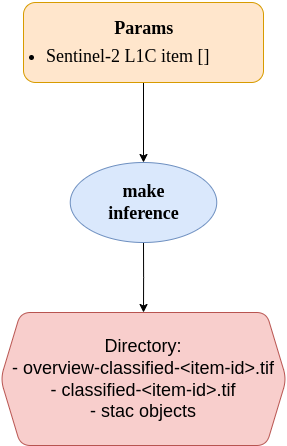
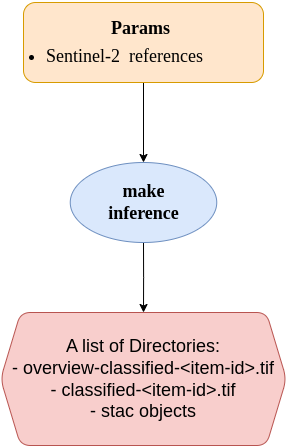
docs: best practice docs

Changed region(s): [[0.3902, 0.0291, 0.7526, 0.1457], [0.223, 0.7578, 0.7526, 0.8161]]

diff --git a/docs/training-cwl.md b/docs/training-cwl.md
@@ -1,57 +1,30 @@
 # Training Module & CWL Runner
 
-The users have the option to execute their training remotely on a remote machine, which becomes their preferred choice for conducting long-running experiments. 
- The user will be able to train a simple training job and track evaluation metrics, model's hyper-parameters, application inputs, and artifacts using mlflow. He/She should build a docker image from the application package which is explained in [training-container](./training-container.md) and push to a dedicated image registry (in this case we use github container registry). Then, The user develop a cwl document with containing a top layer workflow with a CommandLineTool step which is responsible for executing the training pipeline. For executing the application package, the user have the options to use whether [cwltool](https://github.com/common-workflow-language/cwltool) or [calrissian](https://github.com/Duke-GCB/calrissian).
+This Application Package provides a CWL document containing a top-level workflow with a singleCommandLineToolstep that executes the training pipeline. It also supports **parallel execution**, allowing users to specify multiple sets of hyperparameter or training configurations. This makes it suitable for large-scale experiments and hyperparameter tuning on platforms like a Minikube cluster.
+
+To execute the training workflow, users can choose between [cwltool](https://github.com/common-workflow-language/cwltool) and [Calrissian](https://github.com/Duke-GCB/calrissian) as their CWL runners.
+
+# Inputs:
+
+| Parameter              | Type     | Description |
+|------------------------|----------|-------------|
+| MLFLOW_TRACKING_URI    | string      | An environment variable for the MLFLOW_TRACKING_URI |
+| stac_reference         | string   | URL pointing to a STAC catalog. The model reads GeoParquet annotations from the collection's assets. |
+| BATCH_SIZE             | int[]    | Number of batches |
+| CLASSES                | int      | Number of land cover classes to classify. |
+| DECAY                  | float[]  | Decay value used in training. |
+| EPOCHS                 | int[]    | Number of epochs |
+| EPSILON                | float[]  | Epsilon value (model hyperparameter) |
+| LEARNING_RATE          | float[]  | Initial learning rate for the optimizer. |
+| LOSS                   | string[] | Loss function for training. Options: `binary_crossentropy`, `cosine_similarity`, `mean_absolute_error`, `mean_squared_logarithmic_error`, `squared_hinge`. |
+| MEMENTUM               | float[]  | Momentum parameter used in optimizers |
+| OPTIMIZER              | string[] | Optimization algorithm. Options: `Adam`, `SGD`, `RMSprop`. |
+| REGULARIZER            | string[] | Regularization technique to avoid overfitting. Options: `l1l2`, `l1`, `l2`, `None`. |
+| SAMPLES_PER_CLASS      | int      | Number of samples to use for training per class. |
 
 
 ## How to execute the application-package?
-Before executing the application package with a CWL runner, the user must first update the [params.yaml](./params.yaml) including the inputs below:
-
-with the correct credentials as well as updating the latest docker image reference in the cwl file as below:
-```
-stac_endpoint_url: https://ai-extensions-stac.terradue.com/collections/Euro_SAT
-BATCH_SIZE: 4
-EPOCHS: 3
-LEARNING_RATE: 0.0001
-DECAY: 0.1  ### float
-EPSILON: 0.000002
-MEMENTUM: 0.95
-# choose one of binary_crossentropy/cosine_similarity/mean_absolute_error/mean_squared_logarithmic_error
-# squared_hinge
-LOSS: categorical_crossentropy  
-# choose one of  l1,l2,None
-REGULIZER: None
-# try Adam/SGD/RMSprop
-OPTIMIZER: Adam
-###############################################################
-###############################################################
-# Dataset
-SAMPLES_PER_CLASS: 10
-CLASSES: 10
-IMAGE_SIZE: [64, 64, 13]
-enable_data_ingestion: True
-
-```
-and some environment variable must be set:
-
-```
-# Environment variables
-# AWS
-AWS_S3_ENDPOINT: #AWS_S3_ENDPOINT 
-AWS_REGION: fr-par # AWS_REGION 
-AWS_DEFAULT_REGION: fr-par #AWS_DEFAULT_REGION 
-AWS_ACCESS_KEY_ID:  #AWS_ACCESS_KEY_ID 
-AWS_SECRET_ACCESS_KEY:  # AWS_SECRET_ACCESS_KEY 
-BUCKET_NAME: ai-ext-bucket-dev # BUCKET_NAME ai-ext-bucket-dev
-##############################################################
-##############################################################
-# STAC
-IAM_URL:  # IAM_URL
-IAM_PASSWORD:  #IAM_PASSWORD
-MLFLOW_TRACKING_URI: http://my-mlflow:5000
-```
-The latest version of cwl document can be fetched as below:
-
+Before running the application with a CWL runner, make sure to download and use the latest version of the CWL document:
 ```
 cd training/app-package
 VERSION="0.0.4"
@@ -66,27 +39,22 @@ There are two methods to execute the application:
 
 - Executing the tile-based-training using cwltool in a terminal:
 
-    ```
-    cwltool --podman --debug tile-sat-training.cwl#tile-sat-training params.yml
-    ```
+   ``
+    cwltool --podman --debug --parallel tile-sat-training.cwl#tile-sat-training params.yml
+   ``
     
 
 
 - Executing the tile-based classification using calrissian in a terminal:
 
-    ```
-    calrissian --debug --stdout /calrissian/out.json --stderr /calrissian/stderr.log --usage-report /calrissian/report.json --max-ram 10G --max-cores 2 --tmp-outdir-prefix /calrissian/tmp/ --outdir /calrissian/results/ --tool-logs-basepath /calrissian/logs tile-sat-training.cwl#tile-sat-training params.yaml
-    ```
+   ``
+    calrissian --debug --stdout /calrissian/out.json --stderr /calrissian/stderr.log --usage-report /calrissian/report.json --parallel --max-ram 10G --max-cores 2 --tmp-outdir-prefix /calrissian/tmp/ --outdir /calrissian/results/ --tool-logs-basepath /calrissian/logs tile-sat-training.cwl#tile-sat-training params.yaml
+   ``
 
-   
 
-## Additional Resources
-Please see below for additional resources and tutorials for developing Earth Observation (EO) Application Packages using the CWL:
+## How the CWL document designed:
+The CWL file can be triggered using `cwltool` or `calrissian`. The user provides a `params.yml` file that passes all inputs needed by the CWL file to execute the module. The CWL file is designed to execute the module based on the structure below:
 
-* [Application Package and CWL as a solution for EO portability](https://eoap.github.io/cwl-eoap/)
+<p align="center"><img src="./imgs/training.png" alt="Picture" width="40%" height="10%" style="display: block; margin: 20px auto;"/></p>
 
-* [A simple EO Application Package for getting started](https://eoap.github.io/quickwin/)
-
-* [Mastering EO Application Packaging with CWL](https://eoap.github.io/mastering-app-package/)
-
-* [Inference with the EO Application Package](https://eoap.github.io/inference-eoap/)
+> **`[]`** in the image above indicates that the user may pass a list of parameters to the application package.

diff --git a/docs/inference-cwl.md b/docs/inference-cwl.md
@@ -1,58 +1,45 @@
 # Inference Module & CWL Runner
 
-In the [training](training-container.md) module, the user trained a CNN model on EuroSAT dataset to classify image chips into 10 different classes and tracked the workflow with MLFlow.
+In the [training module](training-container.md), a CNN model was trained on the EuroSAT dataset to classify image chips into 10 different land use/land cover classes. The training workflow was tracked using MLflow.
 
-In this Application Package, the user provide a cwl document to performs inference by applying the trained model to unseen data to generate a classified image. The cwl document containing one main workflow to execute one CommandLineTool step:
+This Application Package provides a CWL document that performs inference by applying the trained model to unseen Sentinel-2 data in order to generate a classified image. The CWL document contains a single main workflow that executes one `CommandLineTool` step. It also supports parallel execution by accepting a list of Sentinel-2 references as input, making it suitable for running at scale on a Minikube cluster.
 
-The Application Package takes as input a [staged-in](./stage-in.md) Sentinel-2 L1C data and classifies it into 11 land cover classes:
+To execute the application, users have the option to use either [cwltool](https://github.com/common-workflow-language/cwltool) or [Calrissian](https://github.com/Duke-GCB/calrissian) as the CWL runner.
 
-| Class ID | Class Name            |
-|----------|-----------------------|
-| 0        | AnnualCrop            |
-| 1        | Forest                |
-| 2        | HerbaceousVegetation  |
-| 3        | Highway               |
-| 4        | Industrial            |
-| 5        | Pasture               |
-| 6        | PermanentCrop         |
-| 7        | Residential           |
-| 8        | River                 |
-| 9        | SeaLake               |
-| 10       | No Data               |
+## Inputs:
+- `input_reference`: A list of reference to a Sentinel-2 product on [planetary computer](https://planetarycomputer.microsoft.com/api/stac/v1/collections). The application will give you an accurate result if the sentinel-2 product has no/low cloud-cover.
 
-For executing the application package, the user have the options to use whether [cwltool](https://github.com/common-workflow-language/cwltool) or [calrissian](https://github.com/Duke-GCB/calrissian).
+## How to Execute the Application Package
 
-## Inputs
-The CWL file takes as input a reference to a directory containing the staged Sentinel-2 L1C product.
+Before running the application with a CWL runner, make sure to download and use the latest version of the CWL document:
 
-## **How to Execute the Application Package?**
-
-Before executing the application package with a CWL runner, the user must first stage in the Sentinel-2 L1C data. Instructions for doing this can be found in the [stage-in guide](./stage-in.md). Then update the latest docker image reference in the cwl file as below:
-```
+```bash
 cd inference/app-package
 VERSION="0.0.4"
 curl -L -o "tile-sat-inference.cwl" \
   "https://github.com/eoap/machine-learning-process/releases/download/${VERSION}/tile-sat-inference.${VERSION}.cwl"
-
 ```
 
 ### **Run the Application Package**:
 There are two methods to execute the application:
 
-- Executing the `tile-sat-inference` app using `cwltool` in a terminal:
+- Executing the `tile-sat-inference` app using `cwltool`:
 
     ```bash
-    cwltool --podman --debug tile-sat-inference.cwl#tile-sat-inference params.yml
+    cwltool --podman --debug --parallel tile-sat-inference.cwl#tile-sat-inference params.yml
     ```
 
-- Executing the water-bodies-app using `calrissian` in a terminal:
+- Executing the `tile-sat-inference` using `calrissian`:
 
     ```bash
     
-    calrissian --debug --stdout /calrissian/out.json --stderr /calrissian/stderr.log --usage-report /calrissian/report.json --max-ram 10G --max-cores 2 --tmp-outdir-prefix /calrissian/tmp/ --outdir /calrissian/results/ --tool-logs-basepath /calrissian/logs tile-sat-inference.cwl#tile-sat-inference params.yml
+    calrissian --debug --stdout /calrissian/out.json --stderr /calrissian/stderr.log --usage-report /calrissian/report.json --max-ram 10G --max-cores 2 --parallel --tmp-outdir-prefix /calrissian/tmp/ --outdir /calrissian/results/ --tool-logs-basepath /calrissian/logs tile-sat-inference.cwl#tile-sat-inference params.yml
     ```
+  > You can monitor the pod creation using command below:
+  >
+  >   `kubectl get pods` 
 
-## How the CWL Document Works:
+## How the CWL document designed:
 The CWL file can be triggered using `cwltool` or `calrissian`. The user provides a `params.yml` file that passes all inputs needed by the CWL file to execute the module. The CWL file is designed to execute the module based on the structure below:
 
 <p align="center"><img src="./imgs/inference.png" alt="Picture" width="40%" height="10%" style="display: block; margin: 20px auto;"/></p>

diff --git a/docs/inference-container.md b/docs/inference-container.md
@@ -1,11 +1,13 @@
 # Inference container:
-This module helps the user to create a pipeline for inference, which is responsible for reading assets from a Sentinel-2 L1C STAC item, loading 13 common bands, and providing a binary mask TIFF image using a CNN model that has already been trained (Please check the [training-container](./training-container.md)). 
+
+This module enables users to create an inference pipeline that take a Sentinel-2 STAC Item from the [Planetary Computer](https://planetarycomputer.microsoft.com/api/stac/v1/collections), and generates a binary mask TIFF image using a pre-trained CNN model. For details on how the model was trained, refer to the [training container documentation](./training-container.md).
+
 
 
 ## **Make Inference Module:**
 
 **Inputs**:
-- `input_reference`: The reference to a [staged-in](./stage-in.md) Sentinel-2 L1C product to run the inference on Sentinel-2 L1C images with 13 common bands.
+- `input_reference`: The reference to a Sentinel-2 product on [planetary computer](https://planetarycomputer.microsoft.com/api/stac/v1/collections). The application will give you an accurate result if the sentinel-2 product has no/low cloud-cover.
 
 **Outputs**:
 
@@ -43,14 +45,30 @@ This module helps the user to create a pipeline for inference, which is responsi
 
 - `STAC objects`: STAC objects related to the provided masks, including STAC catalog and STAC Item.
 
+## How the Application Works
 
-Certainly! Here's a grammatically correct and technically clearer version of your section:
+The application begins by reading a Sentinel-2 STAC Item from the [Planetary Computer](https://planetarycomputer.microsoft.com/api/stac/v1/collections). It then filters and selects 12 specific asset references in the order expected by the machine learning model. These assets correspond to common Sentinel-2 bands, as shown below:
 
+| Index | Asset Key  | Asset Common Name |
+|-------|------------|-------------------|
+| 1     | B01        | Coastal           |
+| 2     | B02        | Blue              |
+| 3     | B03        | Green             |
+| 4     | B04        | Red               |
+| 5     | B05        | Red Edge          |
+| 6     | B06        | Red Edge          |
+| 7     | B07        | Red Edge          |
+| 8     | B08        | NIR               |
+| 9     | B8A        | Narrow NIR        |
+| 10    | B09        | Water Vapor       |
+| 11    | B11        | SWIR 1 (16)       |
+| 12    | B12        | SWIR 2 (22)       |
 
-## How the Application Package Works
+As a preprocessing step, all selected assets are resampled to a uniform resolution of 10 meters.
 
-Before developing the inference module, one crucial step must be completed: the user needs to **select a candidate model from MLflow**, based on preferred evaluation metrics. The selected model should then be exported in the [ONNX](https://onnx.ai/) format and used for building the inference module.
+The pipeline then proceeds with a sliding window approach: it reads and stacks small image chips from the selected bands in the order listed above. These chips are fed into a trained CNN model, which predicts the corresponding class for each chip.
 
-The user must also provide a staged-in Sentinel-2 L1C product and read the STAC Item's 13 common spectral bands, which serve as the input to the trained model. These assets are processed using a 64×64 sliding window to handle memory limitations and ensure the input size matches that of the machine learning model.
-
-Finally, the model generates predictions, and the resulting classification masks are stored as a **COG (Cloud-Optimized GeoTIFF)** image.
+Finally, the application generates:
+- The classification prediction map (as a GeoTIFF mask)
+- A visual overview image
+- An updated STAC item containing metadata and references to the output files

diff --git a/docs/training-container.md b/docs/training-container.md
@@ -4,50 +4,25 @@ This tutorial containing a python application for training a deep learning model
 
 <p align="center"><img src="https://raw.githubusercontent.com/phelber/EuroSAT/master/eurosat_overview_small.jpg" alt="Picture" width="40%" height="10%" style="display: block; margin: 20px auto;"/></p>
 
+
 ## Inputs
-The application has the option to train the model using CPU or GPU to accelerate the training process. It received a set of input parameters including:
-```
-stac_endpoint_url: https://ai-extensions-stac.terradue.com/collections/Euro_SAT
-BATCH_SIZE: 4
-EPOCHS: 3
-LEARNING_RATE: 0.0001
-DECAY: 0.1  ### float
-EPSILON: 0.000002
-MEMENTUM: 0.95
-# choose one of binary_crossentropy/cosine_similarity/mean_absolute_error/mean_squared_logarithmic_error
-# squared_hinge
-LOSS: categorical_crossentropy  
-# choose one of  l1,l2,None
-REGULIZER: None
-# try Adam/SGD/RMSprop
-OPTIMIZER: Adam
-###############################################################
-###############################################################
-# Dataset
-SAMPLES_PER_CLASS: 10
-CLASSES: 10
-IMAGE_SIZE: [64, 64, 13]
-enable_data_ingestion: True
 
-```
-and some environment variable must be set:
+This application supports training the CNN model using either CPU or GPU to accelerate the process. It accepts the following input parameters:
 
-```
-# Environment variables
-# AWS
-AWS_S3_ENDPOINT: #AWS_S3_ENDPOINT 
-AWS_REGION: fr-par # AWS_REGION 
-AWS_DEFAULT_REGION: fr-par #AWS_DEFAULT_REGION 
-AWS_ACCESS_KEY_ID:  #AWS_ACCESS_KEY_ID 
-AWS_SECRET_ACCESS_KEY:  # AWS_SECRET_ACCESS_KEY 
-BUCKET_NAME: ai-ext-bucket-dev # BUCKET_NAME ai-ext-bucket-dev
-##############################################################
-##############################################################
-# STAC
-IAM_URL:  # IAM_URL
-IAM_PASSWORD:  #IAM_PASSWORD
-MLFLOW_TRACKING_URI: http://my-mlflow:5000
-```
+| Parameter              | Type     | Default Value | Description |
+|------------------------|----------|----------------|-------------|
+| `--stac_reference`, `--sr` | `str`   | `https://raw.githubusercontent.com/eoap/machine-learning-process/main/training/app-package/EUROSAT-Training-Dataset/catalog.json` | URL pointing to a STAC catalog. The model reads GeoParquet annotations from the collection's assets. |
+| `--BATCH_SIZE`, `--b`  | `int`    | `2`            | Number of batches |
+| `--CLASSES`, `--c`     | `int`    | `10`           | Number of land cover classes to classify. |
+| `--DECAY`, `--d`       | `float`  | `0.1`          |  Decay value used in training. |
+| `--EPOCHS`, `--ep`     | `int`    | *required*     | Number of epochs |
+| `--EPSILON`, `--e`     | `float`  | `1e-6`         | epsilon value (Model's heyperparameter) |
+| `--LEARNING_RATE`, `--lr` | `float` | `0.0001`      | Initial learning rate for the optimizer. |
+| `--LOSS`, `--lo`       | `str`    | `categorical_crossentropy` | Loss function for training. Options: `binary_crossentropy`, `cosine_similarity`, `mean_absolute_error`, `mean_squared_logarithmic_error`, `squared_hinge`. |
+| `--MEMENTUM`, `--m`    | `float`  | `0.95`         | Momentum parameter used in optimizers |
+| `--OPTIMIZER`, `--o`   | `str`    | `Adam`         | Optimization algorithm. Options: `Adam`, `SGD`, `RMSprop`. |
+| `--REGULARIZER`, `--r` | `str`    | `None`         | Regularization technique to avoid overfitting. Options: `l1l2`,`l1`, `l2`, `None`. |
+| `--SAMPLES_PER_CLASS`, `--s` | `int` | `10`       | Number of samples to use for training per class. |
 
 
 ## How the application structured internally

diff --git a/docs/hands-on.md b/docs/hands-on.md
@@ -1,10 +1,19 @@
 # Hands-on
 
-- Tile-based Training implementation:
-Open the [documention](./training-cwl.md) of training component and execute different runs with different model's hyperparameter by following [this instructions](../training/app-package/README.md). 
-- Run Stage-in:
-Open the [documentation](./stage-in.md) to learn how to stage-in the Sentinel-2 L1C products. 
-- Tile-based Inference implementation:
-Open the [documention](./inference-cwl.md) of inference component and execute different runs with different staged-in products.
-- Describing the ML model:
-Open the [documentation](./mlm.md.md) of MLM component and execute the notebook.
+This page provides a step-by-step guide to help you run different components of the workflow:
+
+---
+
+### Tile-based Training Implementation
+Refer to the [training component documentation](./training-cwl.md) and run multiple training jobs with various model hyperparameters by following the instructions provided in the [README](../training/app-package/README.md).
+
+---
+
+### Tile-based Inference Implementation
+Check the [inference component documentation](./inference-cwl.md) and run inference using different sentinel-2 products in parallel using calrissian or once in a time using cwltool.
+
+---
+
+### Describing the ML Model
+Refer to the [MLM component documentation](./mlm.md.md) and execute the provided notebook to describe the machine learning model.
+
